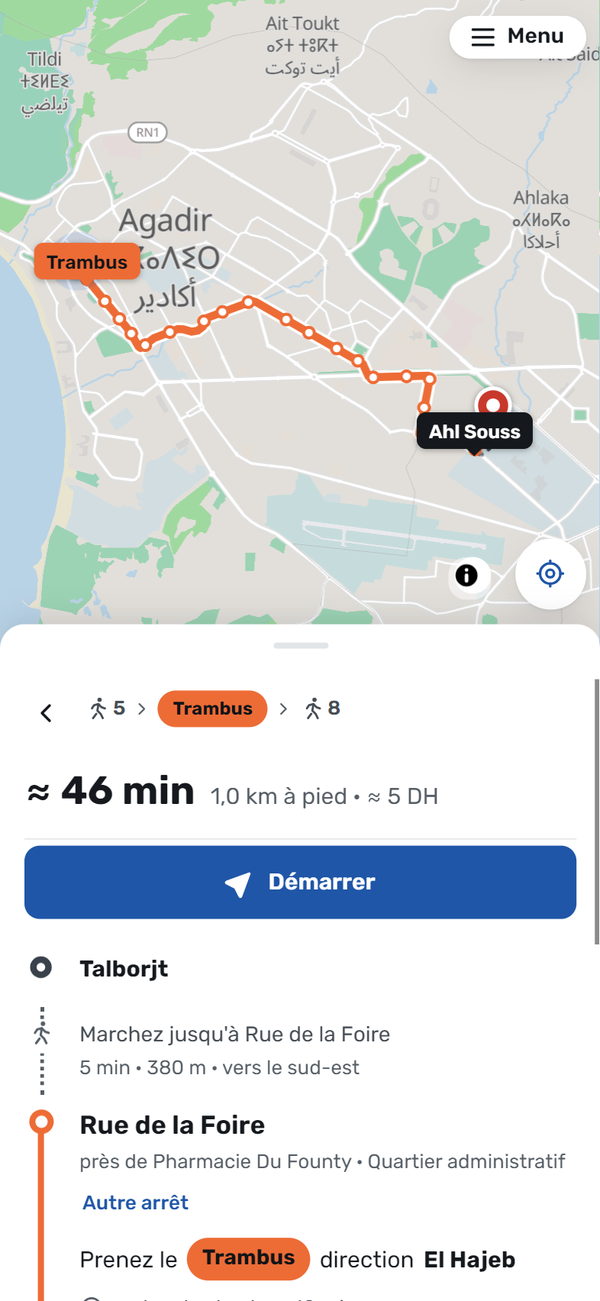
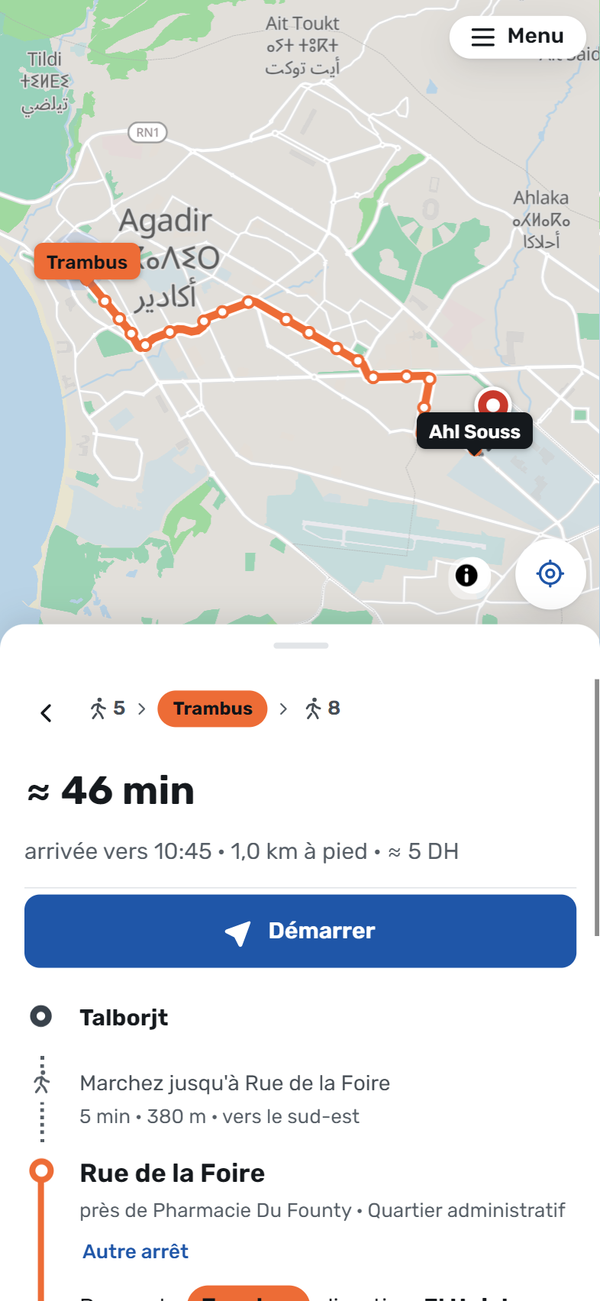
night: warning first, line 26 hours, buses marked unsure; trips stay framed; arrival times; one-line fields; tidy shared names

diff --git a/src/views/results.ts b/src/views/results.ts
@@ -74,7 +74,7 @@ export function resultsBody() {
   // No bus within the usual walk: say how far the first stop is, before the options.
   const firstWalk = state.journeys.find((j) => j.rides > 0)?.legs[0];
   const longWalk = state.widened && firstWalk?.kind === "walk" ? h("p", { class: "tip tip-walk" }, icon.walk(), h("small", null, t("longWalk", fmtMinutes(firstWalk.seconds)))) : null;
-  return h("div", { class: "results" }, to?.sub ? h("p", { class: "muted", style: "margin:2px 0 4px" }, nm(to.sub)) : null, tripControls(), compareBlock(longWalk), nearBlock, dataNote());
+  return h("div", { class: "results" }, tripControls(), compareBlock(longWalk), nearBlock, dataNote());
 }
 
 // ---------- comparing every way to get there ----------
@@ -94,7 +94,8 @@ export function compareBlock(extraNote: Node | null = null) {
       return leave.getTime() < Date.now() ? t("tooLate") : t("leaveBefore", clock(leave));
     }
     const t0 = startTime();
-    return `${clock(t0)} – ${clock(new Date(t0.getTime() + o.seconds * 1000))}`;
+    const end = new Date(t0.getTime() + o.seconds * 1000);
+    return w.mode === "now" ? t("arriveAround", clock(end)) : `${clock(t0)} – ${clock(end)}`;
   };
   const prefs = getPrefs();
   // Drop options that are worse than another on time, price and walking at once.
@@ -102,8 +103,15 @@ export function compareBlock(extraNote: Node | null = null) {
   const hidden = options.length - front.length;
   const win = winners(options);
   const list = h("div", { class: "options" });
-  // Notes (late night, a long walk to the first stop) go under the first trip, not above all of them.
-  const notes = [extraNote, night ? h("p", { class: "tip tip-night" }, icon.clock(), h("small", null, t("nightNote"))) : null].filter(Boolean) as Node[];
+  // A long walk to the first stop is told under the first trip. Late at night the warning comes first:
+  // it changes what every trip below can promise.
+  const notes = [extraNote].filter(Boolean) as Node[];
+  const nightWarning = night ? h("p", { class: "tip tip-night", role: "note" }, icon.clock(), h("span", null, t("nightNote"))) : null;
+  // Late at night, a bus whose line publishes no hours may well not come.
+  const unsure = (o: Option) => {
+    if (!night || o.journey === undefined) return false;
+    return state.journeys[o.journey].legs.some((l) => l.kind === "ride" && !net.lines[l.line].hours);
+  };
   const draw = () => {
     const ranked = recommend(showAllOptions ? options : front, prefs);
     const longest = Math.max(...ranked.map((o) => o.range[1]), 1);
@@ -113,7 +121,7 @@ export function compareBlock(extraNote: Node | null = null) {
           o,
           i === 0,
           // The top option just says so; the others say what they're best at.
-          (i === 0 ? [t("recommended")] : [nearTie(ranked[0], o, prefs) && t("nearTie"), win.fast === o && t("prioFast"), win.cheap === o && t("prioCheap"), win.walk === o && t("prioWalk")]).filter(Boolean) as string[],
+          [...(unsure(o) ? [t("nightUnsure")] : []), ...(i === 0 ? [t("recommended")] : [nearTie(ranked[0], o, prefs) && t("nearTie"), win.fast === o && t("prioFast"), win.cheap === o && t("prioCheap"), win.walk === o && t("prioWalk")])].filter(Boolean) as string[],
           longest,
           i === 0 ? null : tradeText(ranked[0], o),
           clockText(o),
@@ -133,6 +141,7 @@ export function compareBlock(extraNote: Node | null = null) {
   return h(
     "div",
     { class: "compare" },
+    nightWarning,
     list,
     hidden > 0
       ? h(
@@ -221,7 +230,7 @@ export function optionRow(o: Option, first: boolean, tags: string[], longest: nu
       h(
         "div",
         { class: "opt-main" },
-        tags.length ? h("div", { class: "opt-tags" }, tags.map((x) => h("span", { class: "opt-tag" }, x))) : null,
+        tags.length ? h("div", { class: "opt-tags" }, tags.map((x) => h("span", { class: `opt-tag${x === t("nightUnsure") ? " opt-tag-warn" : ""}` }, x))) : null,
         head,
         h("span", { class: "journey-sub" }, sub),
         clockLine ? h("span", { class: "opt-clock" }, clockLine) : null,

diff --git a/src/views/trip.ts b/src/views/trip.ts
@@ -6,6 +6,8 @@ import { visible } from "../ui/colour.ts";
 import { fareFor, fmtDH, hasCard } from "../fares.ts";
 import { net, nm, render, state } from "../app/state.ts";
 import { go } from "../app/nav.ts";
+import { startTime } from "../app/plan.ts";
+import { clock } from "./tripopts.ts";
 import { cardNote, header, journeyFare, legChips, stopLine, variantOf } from "./common.ts";
 
 export const DIRS = {
@@ -21,6 +23,13 @@ export function heading(a: LngLat, b: LngLat) {
 
 // A trip as a vertical route: dotted line for walking, the line's colour for
 // riding, a dot at each place you change what you're doing.
+// When you'd be there: from now, or from the chosen departure; for "arrive by", by when.
+function arrival(seconds: number) {
+  const w = state.when;
+  if (w.mode === "arrive") return t("whenSummaryArrive", clock(new Date(w.at)));
+  return t("arriveAround", clock(new Date(startTime().getTime() + seconds * 1000)));
+}
+
 export function tripBody(index: number) {
   const j = state.journeys[index];
   const steps: Node[] = [];
@@ -123,7 +132,7 @@ export function tripBody(index: number) {
       "div",
       { class: "trip-summary" },
       h("span", { class: "journey-time" }, `≈ ${fmtMinutes(j.seconds)}`),
-      h("span", { class: "muted" }, `${fmtDistance(j.walkMetres)} ${t("walkMin")}${fare ? ` · ≈ ${fmtDH(fare)}` : ""}`),
+      h("span", { class: "muted" }, `${arrival(j.seconds)} · ${fmtDistance(j.walkMetres)} ${t("walkMin")}${fare ? ` · ≈ ${fmtDH(fare)}` : ""}`),
     ),
     // Start sits under the summary, as in a maps app: seen at once, and never floating over the steps.
     h("div", { class: "trip-start" }, h("button", { class: "btn btn-primary", onclick: () => go({ name: "ride", index }) }, icon.arrow(), t("startTrip"))),

diff --git a/src/map.ts b/src/map.ts
@@ -82,6 +82,10 @@ export class BusMap {
         try {
           this.addOverlays(handlers);
           this.drawKept();
+          this.refit();
+          // A pan or zoom by the rider (not by us) ends the automatic framing.
+          for (const ev of ["dragstart", "zoomstart", "rotatestart"] as const) this.map.on(ev, (e) => e.originalEvent && (this.riderMoved = true));
+          this.map.on("resize", () => this.refit());
           this.foldCredit();
           // A stop label near the edge slides back inside the map; its pointer stays on the stop.
           this.map.on("move", () => this.keepLabelsInside());
@@ -372,6 +376,7 @@ export class BusMap {
   }
   clearTrip() {
     this.lastTrip = undefined;
+    this.framed = undefined;
     (this.map.getSource("trip") as GeoJSONSource | undefined)?.setData(empty());
     this.clearMarkers();
   }
@@ -406,8 +411,17 @@ export class BusMap {
     this.map.flyTo({ center: ll, zoom, padding: this.padding(), duration: motion(600) });
   }
 
+  // The trip or line to keep in frame: re-fitted once the map has loaded and when the screen size
+  // settles (an iPhone's does, just after opening), until the rider pans or zooms themselves.
+  private framed?: maplibregl.LngLatBounds;
+  private riderMoved = false;
   fit(b: maplibregl.LngLatBounds) {
+    this.framed = b;
+    this.riderMoved = false;
     this.map.fitBounds(b, { padding: this.padding(), maxZoom: 16.5, duration: motion(600) });
+  }
+  private refit() {
+    if (this.framed && !this.riderMoved) this.map.fitBounds(this.framed, { padding: this.padding(), maxZoom: 16.5, duration: 0 });
   }
 
   /** Keep content clear of the panel: bottom sheet on phones, side panel on wide screens. */

diff --git a/src/style.css b/src/style.css
@@ -16,6 +16,8 @@
   --rule: #e2e5e8;
   --accent: #1f56a8;
   --dest: #c8392b; /* the destination pin: 5.5:1 on white */
+  --warn-bg: #fdf3dc;
+  --warn-ink: #5c4400;
   --origin: #39424b; /* the start mark */
   --accent-2: #17468d;
   --on-accent: #ffffff;
@@ -45,6 +47,8 @@
     --rule: #2b3137;
     --accent: #7aa7f0;
   --dest: #ff7b6b;
+  --warn-bg: #3a2f12;
+  --warn-ink: #f5d78a;
   --origin: #dbe2e8;
     --accent-2: #9bbcf5;
     --on-accent: #0c1726;
@@ -66,6 +70,8 @@
   --rule: #2b3137;
   --accent: #7aa7f0;
   --dest: #ff7b6b;
+  --warn-bg: #3a2f12;
+  --warn-ink: #f5d78a;
   --origin: #dbe2e8;
   --accent-2: #9bbcf5;
   --on-accent: #0c1726;
@@ -1883,4 +1889,35 @@ button.option:hover {
 .trip-start {
   display: grid;
   margin: 2px 0 14px;
+}
+/* A long place name ends in "…" in its field rather than being cut mid-word. */
+.field-input {
+  text-overflow: ellipsis;
+}
+/* Late at night: the warning above the trips, so it's read first. */
+.tip-night {
+  align-items: flex-start;
+  margin: 0 0 10px;
+  background: var(--warn-bg, #fdf3dc);
+  color: var(--warn-ink, #5c4400);
+  font-size: 0.875rem;
+  line-height: 1.4;
+}
+/* A warning tag (late night) reads as a warning, not as praise. */
+.opt-tag-warn {
+  background: var(--warn-bg);
+  color: var(--warn-ink);
+}
+/* Results: one line per field, as in a maps app; the ring and the pin say which is which.
+   The word stays for screen readers. */
+.planner-results .field-label {
+  position: absolute;
+  width: 1px;
+  height: 1px;
+  overflow: hidden;
+  clip-path: inset(50%);
+  white-space: nowrap;
+}
+.planner-results .field {
+  min-height: 46px;
 }

diff --git a/src/geoinput.ts b/src/geoinput.ts
@@ -75,6 +75,15 @@ const num = (s: string) => Number(s);
 const valid = (lat: number, lng: number) => Number.isFinite(lat) && Number.isFinite(lng) && Math.abs(lat) <= 90 && Math.abs(lng) <= 180;
 
 /** Coordinates and place name inside a Google Maps URL, if any. */
+/** A place name from Google, without the parts that add nothing here: ", Morocco", ", Agadir 80000". */
+export function tidyName(n: string): string {
+  return n
+    .replace(/,?\s*(Morocco|Maroc|المغرب)\s*$/i, "")
+    .replace(/,?\s*\b\d{5}\b\s*$/, "")
+    .replace(/,\s*(Agadir|Inezgane|Aït Melloul|Ait Melloul|Dcheira|Taghazout)\s*$/i, "")
+    .trim();
+}
+
 export function parseMapsUrl(raw: string, ref?: LngLat): Parsed {
   let url: URL;
   try {
@@ -128,6 +137,7 @@ export function parseInput(text: string, ref: LngLat): Parsed {
     // Google's share text puts the place name before the link.
     const before = t.slice(0, urlMatch.index).trim().replace(/[\s,:-]+$/, "");
     if (!parsed.name && before) parsed.name = before.split("\n")[0];
+    if (parsed.name) parsed.name = tidyName(parsed.name);
     return parsed;
   }
   const geo = /^geo:(-?\d+\.?\d*),(-?\d+\.?\d*)(?:\?q=([^&]+))?/i.exec(t);

diff --git a/src/i18n.ts b/src/i18n.ts
@@ -129,6 +129,8 @@ const S = {
   takeBusHere: { fr: "Prendre un bus ici", ar: "نشد الطوبيس من هنا", en: "Catch a bus here" },
   takeBusHereSub: { fr: "à pied depuis ma position", ar: "على رجلي من فين أنا", en: "walking from where I am" },
   takeBusWhereTo: { fr: "Où allez-vous depuis cet arrêt ?", ar: "فين غادي من هاد لاري؟", en: "Where to from this stop?" },
+  arriveAround: { fr: "arrivée vers {x}", ar: "توصل حوالي {x}", en: "arrive around {x}" },
+  nightUnsure: { fr: "Peut-être pas de bus à cette heure", ar: "يمكن ما كاينش طوبيس فهاد الساعة", en: "May not run at this hour" },
   version: { fr: "Version {x}", ar: "النسخة {x}", en: "Version {x}" },
   updated: { fr: "Nouvelle version prête · Recharger", ar: "كاينة نسخة جديدة · عاود شارجي", en: "New version ready · Reload" },
   settings: { fr: "Réglages", ar: "الباراميترات", en: "Settings" },

diff --git a/src/app/plan.ts b/src/app/plan.ts
@@ -1,6 +1,6 @@
 import { dist, type LngLat } from "../geo.ts";
 import { t } from "../i18n.ts";
-import { expandShortUrl, parseInput, type Parsed } from "../geoinput.ts";
+import { expandShortUrl, parseInput, tidyName, type Parsed } from "../geoinput.ts";
 import { current, meEndpoint, net, nm, render, router, search, state, type Endpoint } from "./state.ts";
 import { flash, toast } from "./chrome.ts";
 import { go, setStack } from "./nav.ts";
@@ -201,7 +201,7 @@ export async function resolveParsed(p: Parsed): Promise<Endpoint | undefined> {
     return;
   }
   toast.classList.remove("show");
-  return { ll: r.ll, label: { d: r.name || t("sharedPlace") }, kind: "link", sub: t("fromGoogle") };
+  return { ll: r.ll, label: { d: (r.name && tidyName(r.name)) || t("sharedPlace") }, kind: "link", sub: t("fromGoogle") };
 }
 
 /** Opened from the share menu (Web Share Target): ?title=&text=&url= */

diff --git a/tests/agadir.test.ts b/tests/agadir.test.ts
@@ -185,3 +185,15 @@ test("each line's two directions head to different places (ALSA copies the outbo
     assert.equal(new Set(tos).size, tos.length, `line ${l.ref}: ${tos.join(" / ")}`);
   }
 });
+
+test("ALSA hours: only line 26's look real (06:30-21:00, every 30 min), so it's off the table at 01:30", { skip: !have }, async () => {
+  const { runsAt } = await import("../src/router.ts");
+  const withHours = net.lines.filter((l) => !l.brt && l.hours).map((l) => l.ref);
+  assert.deepEqual(withHours, ["26"]);
+  const l26 = net.lines.find((l) => l.ref === "26")!;
+  assert.deepEqual(l26.hours, { first: "06:30", last: "21:00" });
+  assert.equal(l26.headway, 30);
+  assert.ok(runsAt(l26.hours, 10 * 60), "runs at 10:00");
+  assert.ok(!runsAt(l26.hours, 90), "runs at 01:30");
+  assert.ok(!runsAt(l26.hours, 21 * 60 + 30), "runs at 21:30");
+});

diff --git a/src/network.ts b/src/network.ts
@@ -50,8 +50,8 @@ export interface Line {
   variants: Variant[];
   fare?: LineFare;
   headway?: number; // minutes between buses, when the operator publishes it
-  // Service hours ("06:00"), only when the operator publishes them and they look real.
-  // ALSA's own hours are left out: 5 of the 6 lines that list any carry the same filler values.
+  // Service hours ("06:00"), only when the operator publishes them and they look real: the Trambus,
+  // and ALSA lines whose hours span a real day (most ALSA lines carry the same 6:25-10:30 filler).
   hours?: { first?: string; last?: string };
   taxi?: boolean; // a grand taxi route: leaves its stand when full
 }

diff --git a/tests/geoinput.test.ts b/tests/geoinput.test.ts
@@ -68,3 +68,10 @@ test("a Google Maps share link that lands on a plus code and a name (no coordina
   // Without a nearby reference a short plus code means nothing.
   assert.equal(parseMapsUrl("https://maps.google.com/maps?q=CC65+5MW+Cabinet").ll, undefined);
 });
+
+test("shared place names lose the country and the postcode", async () => {
+  const { tidyName } = await import("../src/geoinput.ts");
+  assert.equal(tidyName("The Corniche Agadir, Morocco"), "The Corniche Agadir");
+  assert.equal(tidyName("Cabinet Dr X, Agadir 80000"), "Cabinet Dr X");
+  assert.equal(tidyName("Pharmacie Al Amal"), "Pharmacie Al Amal");
+});
